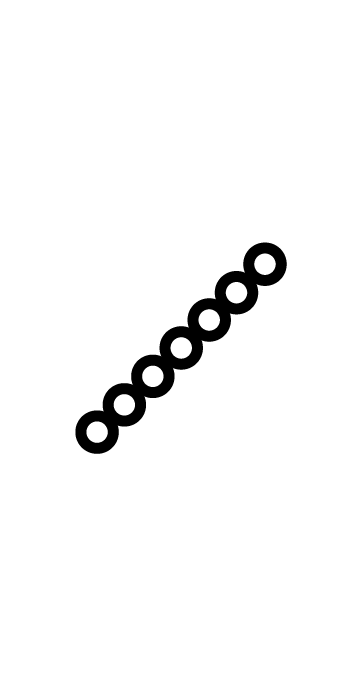
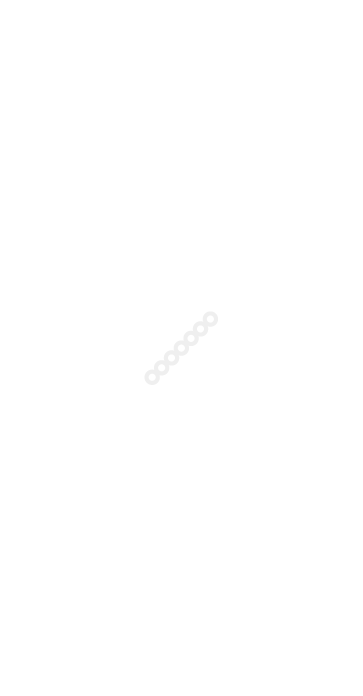
new

Changed region(s): [[0.1823, 0.3319, 0.7901, 0.6638]]

diff --git a/app/cao/user/js/app.js b/app/cao/user/js/app.js
@@ -106,6 +106,8 @@ let currentView = 'level';
 let levelDisplayMode = 'overview';
 /** 排序方式子选项：joined = 加入时间（字库顺序），recency = 练习顺序 */
 let sortByMode = 'joined';
+/** unique 页：放大镜聚焦的字 id（列出该字全部 unique） */
+let uniqueFocusId = null;
 /** 记录历史当前下标；null 表示自动落到最近一次 */
 let historySessionIndex = null;
 
@@ -1023,6 +1025,8 @@ let keyboardSelectMode = false;
 let keyboardSelectIndex = 0;
 /** @type {HTMLElement | null} 选中字下方操作钮 */
 let kbSelectActionsEl = null;
+/** @type {HTMLElement | null} unique 页选中卡上方：共 X 张卡 + 放大镜 */
+let uniqueFocusBarEl = null;
 /** @type {WeakMap<Element, { char: string, script: string, id: string, uniquePreview: object|null }>} */
 const levelCardPreviewByEl = new WeakMap();
 /** @type {object|null} 当前商店日 session */
@@ -1139,6 +1143,21 @@ function resolveCardPrimaryColor(cardStyle = null) {
 function setKeyboardSelectRingColor(card, cardStyle = null) {
   if (!card) return;
   card.style.setProperty('--kb-select-ring', resolveCardPrimaryColor(cardStyle));
+}
+
+function resolveCardSecondaryColor(cardStyle = null) {
+  const fallbackId = typeof CARD_DEFAULT_COLOR_SCHEME_ID !== 'undefined'
+    ? CARD_DEFAULT_COLOR_SCHEME_ID
+    : DEFAULT_COLOR_SCHEME_ID;
+  const schemeId = cardStyle?.colorSchemeId || fallbackId;
+  const scheme = typeof getColorSchemeById === 'function'
+    ? getColorSchemeById(schemeId)
+    : null;
+  if (scheme?.secondaryColor) return scheme.secondaryColor;
+  const fallback = typeof getColorSchemeById === 'function'
+    ? getColorSchemeById(fallbackId)
+    : null;
+  return fallback?.secondaryColor || '#848484';
 }
 
 function refreshLevelViewForStyleTools() {
@@ -3749,6 +3768,7 @@ function setLevelDisplayMode(mode) {
   else if (mode === 'settings') levelDisplayMode = 'settings';
   else levelDisplayMode = 'overview';
   persistLevelDisplayMode(levelDisplayMode);
+  if (prevMode === 'unique' && levelDisplayMode !== 'unique') uniqueFocusId = null;
   if (prevMode === 'shop' && levelDisplayMode !== 'shop') stopShopCountdown();
   applyLevelNavUI();
   hideCardPreview();
@@ -5004,7 +5024,7 @@ function renderLevelSummary(chars, data = null) {
     ['等级', levelSum],
     ['经验', xpSum],
     ['次数', countSum],
-    ['总时间', formatLongDuration(sumSessionsDurationMs(data))],
+    ['总时间', formatHoursDuration(sumSessionsDurationMs(data))],
   ];
 
   el.levelSummary.replaceChildren();
@@ -5145,8 +5165,16 @@ function renderLevelView(entry, {
   if (uniqueOnly) {
     const topBlock = document.createElement('div');
     topBlock.className = 'level-top-block';
+    const ink = typeof resolveInk === 'function' ? resolveInk(data) : (Number(data?.ink) || 0);
+    const focusItems = uniqueFocusId
+      ? collectUniqueItemsForFocus(uniqueItems, uniqueFocusId)
+      : [];
+    if (uniqueFocusId && focusItems.length === 0) uniqueFocusId = null;
+    if (focusItems.length > 0) {
+      topBlock.appendChild(buildUniqueFocusSection(focusItems, { ink }));
+    }
     topBlock.appendChild(buildUniqueSection(uniqueItems, {
-      ink: typeof resolveInk === 'function' ? resolveInk(data) : (Number(data?.ink) || 0),
+      ink,
       groupByAffix: true,
     }));
     fragment.appendChild(topBlock);
@@ -5695,6 +5723,17 @@ function formatLongDuration(ms) {
   if (days > 0) {
     return `${days}天${hours}时${minutes}分${seconds}秒`;
   }
+  return `${hours}时${minutes}分${seconds}秒`;
+}
+
+/** 总览总时间：最大单位为时（超过 24 小时仍换算成小时，不显示天） */
+function formatHoursDuration(ms) {
+  const totalMs = Math.max(0, Math.floor(Number(ms) || 0));
+  const hourMs = 60 * 60 * 1000;
+  const minMs = 60 * 1000;
+  const hours = Math.floor(totalMs / hourMs);
+  const minutes = Math.floor((totalMs % hourMs) / minMs);
+  const seconds = Math.floor((totalMs % minMs) / 1000);
   return `${hours}时${minutes}分${seconds}秒`;
 }
 
@@ -6349,6 +6388,7 @@ function findTopVisibleKeyboardSelectIndex(cards) {
 
 function clearKeyboardSelectHighlight() {
   detachKbSelectActions();
+  detachUniqueFocusBar();
   el.levelList?.querySelectorAll('.level-card.is-kb-selected').forEach((node) => {
     node.classList.remove('is-kb-selected');
   });
@@ -6435,6 +6475,166 @@ function syncKbSelectStarButton(card) {
   if (svg) svg.setAttribute('fill', starred ? 'currentColor' : 'none');
 }
 
+function countUniqueCardsForZiId(ziId) {
+  const id = String(ziId || '');
+  if (!id) return 0;
+  const entry = fileEntries.find((item) => item.id === activeId);
+  const items = collectUniqueCardAppearances(entry?.data || {});
+  return items.filter((item) => String(item?.id || '') === id).length;
+}
+
+function buildUniqueFocusBar() {
+  const wrap = document.createElement('div');
+  wrap.className = 'unique-focus-bar';
+  wrap.setAttribute('role', 'group');
+  wrap.setAttribute('aria-label', '该字 unique 张数');
+
+  const countEl = document.createElement('span');
+  countEl.className = 'unique-focus-bar-count';
+  countEl.textContent = '共0张卡';
+
+  const btn = document.createElement('button');
+  btn.type = 'button';
+  btn.className = 'kb-select-action unique-focus-bar-btn';
+  btn.dataset.action = 'magnify';
+  btn.setAttribute('aria-label', '列出该字全部 unique');
+  btn.title = '列出该字全部 unique';
+  btn.innerHTML = '<svg width="16" height="16" viewBox="0 0 24 24" fill="none" stroke="currentColor" stroke-width="1.75" stroke-linejoin="round" aria-hidden="true"><circle cx="11" cy="11" r="6.5"/><line x1="16" y1="16" x2="20.5" y2="20.5"/></svg>';
+  btn.addEventListener('click', (event) => {
+    event.preventDefault();
+    event.stopPropagation();
+    focusUniqueCardsFromKbSelect();
+  });
+
+  wrap.append(countEl, btn);
+  wrap.addEventListener('mousedown', (event) => {
+    event.stopPropagation();
+  });
+  wrap.addEventListener('click', (event) => {
+    event.stopPropagation();
+  });
+  return wrap;
+}
+
+function ensureUniqueFocusBar() {
+  if (!uniqueFocusBarEl) uniqueFocusBarEl = buildUniqueFocusBar();
+  return uniqueFocusBarEl;
+}
+
+function detachUniqueFocusBar() {
+  uniqueFocusBarEl?.remove();
+}
+
+function syncUniqueFocusBar(card) {
+  const bar = uniqueFocusBarEl;
+  if (!bar) return;
+  const countEl = bar.querySelector('.unique-focus-bar-count');
+  const btn = bar.querySelector('[data-action="magnify"]');
+  const preview = levelCardPreviewByEl.get(card);
+  const id = preview?.id ? String(preview.id) : '';
+  const onUniquePage = currentView === 'level' && levelDisplayMode === 'unique';
+  if (!onUniquePage || !id) {
+    detachUniqueFocusBar();
+    return;
+  }
+
+  const count = countUniqueCardsForZiId(id);
+  if (countEl) countEl.textContent = `共${count}张卡`;
+
+  const style = preview?.uniquePreview?.cardStyle || null;
+  const primary = resolveCardPrimaryColor(style);
+  const secondary = resolveCardSecondaryColor(style);
+  bar.style.backgroundColor = secondary;
+  bar.style.color = primary;
+  if (btn) {
+    btn.style.borderColor = primary;
+    btn.style.color = primary;
+    btn.style.backgroundColor = secondary;
+  }
+
+  const active = uniqueFocusId === id;
+  btn?.classList.toggle('is-active', active);
+  btn?.setAttribute('aria-pressed', active ? 'true' : 'false');
+  if (btn) {
+    btn.title = active ? '关闭该字聚焦' : '列出该字全部 unique';
+    btn.setAttribute('aria-label', btn.title);
+    if (active) {
+      btn.style.backgroundColor = primary;
+      btn.style.color = secondary;
+    }
+  }
+}
+
+function collectUniqueItemsForFocus(items, ziId) {
+  const id = String(ziId || '');
+  if (!id) return [];
+  return (items || []).filter((item) => String(item?.id || '') === id);
+}
+
+function buildUniqueFocusSection(items, { ink = 0 } = {}) {
+  const first = items?.[0];
+  const label = first?.char || first?.id || '—';
+  const section = document.createElement('section');
+  section.className = 'level-section level-section-unique level-section-unique-focus';
+  section.dataset.level = 'unique-focus';
+  section.dataset.focusId = String(first?.id || '');
+
+  const head = document.createElement('div');
+  head.className = 'level-section-head';
+
+  const titleRow = document.createElement('div');
+  titleRow.className = 'level-section-title-row unique-title-row';
+
+  const title = document.createElement('div');
+  title.className = 'level-section-title';
+  title.textContent = `「${label}」 ${items.length}`;
+
+  const clearBtn = document.createElement('button');
+  clearBtn.type = 'button';
+  clearBtn.className = 'unique-focus-clear';
+  clearBtn.textContent = '关闭';
+  clearBtn.title = '关闭该字聚焦';
+  clearBtn.addEventListener('click', (event) => {
+    event.preventDefault();
+    event.stopPropagation();
+    uniqueFocusId = null;
+    const entry = fileEntries.find((item) => item.id === activeId);
+    if (entry?.data && currentView === 'level' && levelDisplayMode === 'unique') {
+      renderActiveView(entry);
+    }
+  });
+
+  titleRow.append(title, clearBtn);
+
+  const rule = document.createElement('div');
+  rule.className = 'level-section-rule';
+  head.append(titleRow, rule);
+  section.appendChild(head);
+
+  const group = document.createElement('div');
+  group.className = 'level-group unique-group';
+  appendUniqueCards(group, sortUniqueItemsByAcquiredAt(items));
+  section.appendChild(group);
+  return section;
+}
+
+function focusUniqueCardsFromKbSelect() {
+  const card = uniqueFocusBarEl?.closest('.level-card')
+    || kbSelectActionsEl?.closest('.level-card');
+  const preview = card ? levelCardPreviewByEl.get(card) : null;
+  const id = preview?.id ? String(preview.id) : '';
+  if (!id || currentView !== 'level' || levelDisplayMode !== 'unique') return;
+
+  uniqueFocusId = uniqueFocusId === id ? null : id;
+  const entry = fileEntries.find((item) => item.id === activeId);
+  if (!entry?.data) return;
+  renderActiveView(entry);
+  el.levelList?.querySelector('.level-section-unique-focus')?.scrollIntoView({
+    block: 'start',
+    behavior: 'smooth',
+  });
+}
+
 async function toggleUniqueStarFromKbSelect() {
   const card = kbSelectActionsEl?.closest('.level-card');
   const selection = readUniqueSelectionFromCard(card);
@@ -6515,6 +6715,7 @@ function detachKbSelectActions() {
 function attachKbSelectActions(card) {
   if (!card?.classList.contains('unique-card')) {
     detachKbSelectActions();
+    detachUniqueFocusBar();
     return;
   }
   const actions = ensureKbSelectActions();
@@ -6522,6 +6723,15 @@ function attachKbSelectActions(card) {
     card.appendChild(actions);
   }
   syncKbSelectStarButton(card);
+
+  const onUniquePage = currentView === 'level' && levelDisplayMode === 'unique';
+  if (onUniquePage) {
+    const bar = ensureUniqueFocusBar();
+    if (bar.parentElement !== card) card.appendChild(bar);
+    syncUniqueFocusBar(card);
+  } else {
+    detachUniqueFocusBar();
+  }
 }
 
 /** 空格选中跟随滚动：上下预留边距，避免贴边 */

diff --git a/app/cao/user/css/style.css b/app/cao/user/css/style.css
@@ -1998,6 +1998,31 @@ body.is-dismantle-mode .dismantle-tools .dismantle-switch-label {
   letter-spacing: 0.14em;
 }
 
+.level-section-unique-focus .level-section-title {
+  letter-spacing: 0.08em;
+  text-transform: none;
+}
+
+.unique-focus-clear {
+  margin-left: auto;
+  flex: 0 0 auto;
+  font-family: inherit;
+  font-size: 0.75rem;
+  font-weight: 700;
+  letter-spacing: 0.06em;
+  padding: 0.3rem 0.7rem;
+  border: 1.5px solid #1a1a1a;
+  border-radius: 999px;
+  background: transparent;
+  color: var(--text);
+  cursor: pointer;
+}
+
+.unique-focus-clear:hover {
+  background: #1a1a1a;
+  color: #fff;
+}
+
 .level-filter-stats {
   display: flex;
   align-items: baseline;
@@ -2258,6 +2283,33 @@ body.is-dismantle-mode .level-section-unique {
   pointer-events: auto;
 }
 
+.unique-focus-bar {
+  position: absolute;
+  left: 50%;
+  bottom: calc(100% + 0.4rem);
+  transform: translateX(-50%);
+  display: flex;
+  align-items: center;
+  gap: 0.35rem;
+  padding: 0.18rem 0.28rem 0.18rem 0.5rem;
+  border-radius: 999px;
+  white-space: nowrap;
+  z-index: 6;
+  pointer-events: auto;
+  box-sizing: border-box;
+}
+
+.unique-focus-bar-count {
+  font-size: 0.875rem;
+  font-weight: 700;
+  letter-spacing: 0.04em;
+  line-height: 1;
+}
+
+.unique-focus-bar-btn {
+  flex: 0 0 auto;
+}
+
 .kb-select-action {
   box-sizing: border-box;
   width: 1.75rem;
@@ -2295,6 +2347,20 @@ body.is-dismantle-mode .level-section-unique {
 .kb-select-action.is-starred:hover {
   background: #333;
   color: #fff;
+}
+
+.kb-select-action.is-active {
+  background: #1a1a1a;
+  color: #fff;
+}
+
+.kb-select-action.is-active:hover {
+  background: #333;
+  color: #fff;
+}
+
+.kb-select-action[hidden] {
+  display: none;
 }
 
 .kb-select-action svg {

diff --git a/app/cao/js/zi-catalog-cao.js b/app/cao/js/zi-catalog-cao.js
@@ -173,6 +173,7 @@ const DEFAULT_ZI_CAO = createZiList([
   caoZi('金', { unicode: 'U+91D1',  calligrapher: '王羲之', work: '絳帖'}),
   caoZi('華', { unicode: 'U+83EF',  alternatives: ['华'], calligrapher: '孫過庭', work: '書譜'}),
   caoZi('遙', { unicode: 'U+9059',  alternatives: ['遥'], calligrapher: '趙孟頫', work: '真草千字文卷'}),
+  
   caoZi('稱', { unicode: 'U+7A31',  alternatives: ['称'], calligrapher: '孫過庭', work: '書譜'}),
   caoZi('貫', { unicode: 'U+8D2F',  alternatives: ['贯'], calligrapher: '孫過庭', work: '書譜'}),
   caoZi('門', { unicode: 'U+9580',  alternatives: ['门'], calligrapher: '孫過庭', work: '書譜'}),
@@ -180,6 +181,11 @@ const DEFAULT_ZI_CAO = createZiList([
   caoZi('衡', { unicode: 'U+8861',  calligrapher: '趙孟頫', work: '歸去來兮並序'}),
   caoZi('製', { unicode: 'U+88FD',  calligrapher: '孫過庭', work: '書譜'}),
   caoZi('體', { unicode: 'U+9AD4',  calligrapher: '孫過庭', work: '書譜'}),
+  caoZi('却', { unicode: 'U+5374',  alternatives: ['卻'], calligrapher: '趙孟頫', work: '致民瞻書札'}),
+  caoZi('考', { unicode: 'U+8003',  calligrapher: '孫過庭', work: '書譜'}),
+  caoZi('類', { unicode: 'U+8003',  alternatives: ['类'], calligrapher: '孫過庭', work: '書譜'}),
+  
+  caoZi('居', { unicode: 'U+5C45',  calligrapher: '孫過庭', work: '書譜'}),
 
 
 ]);
